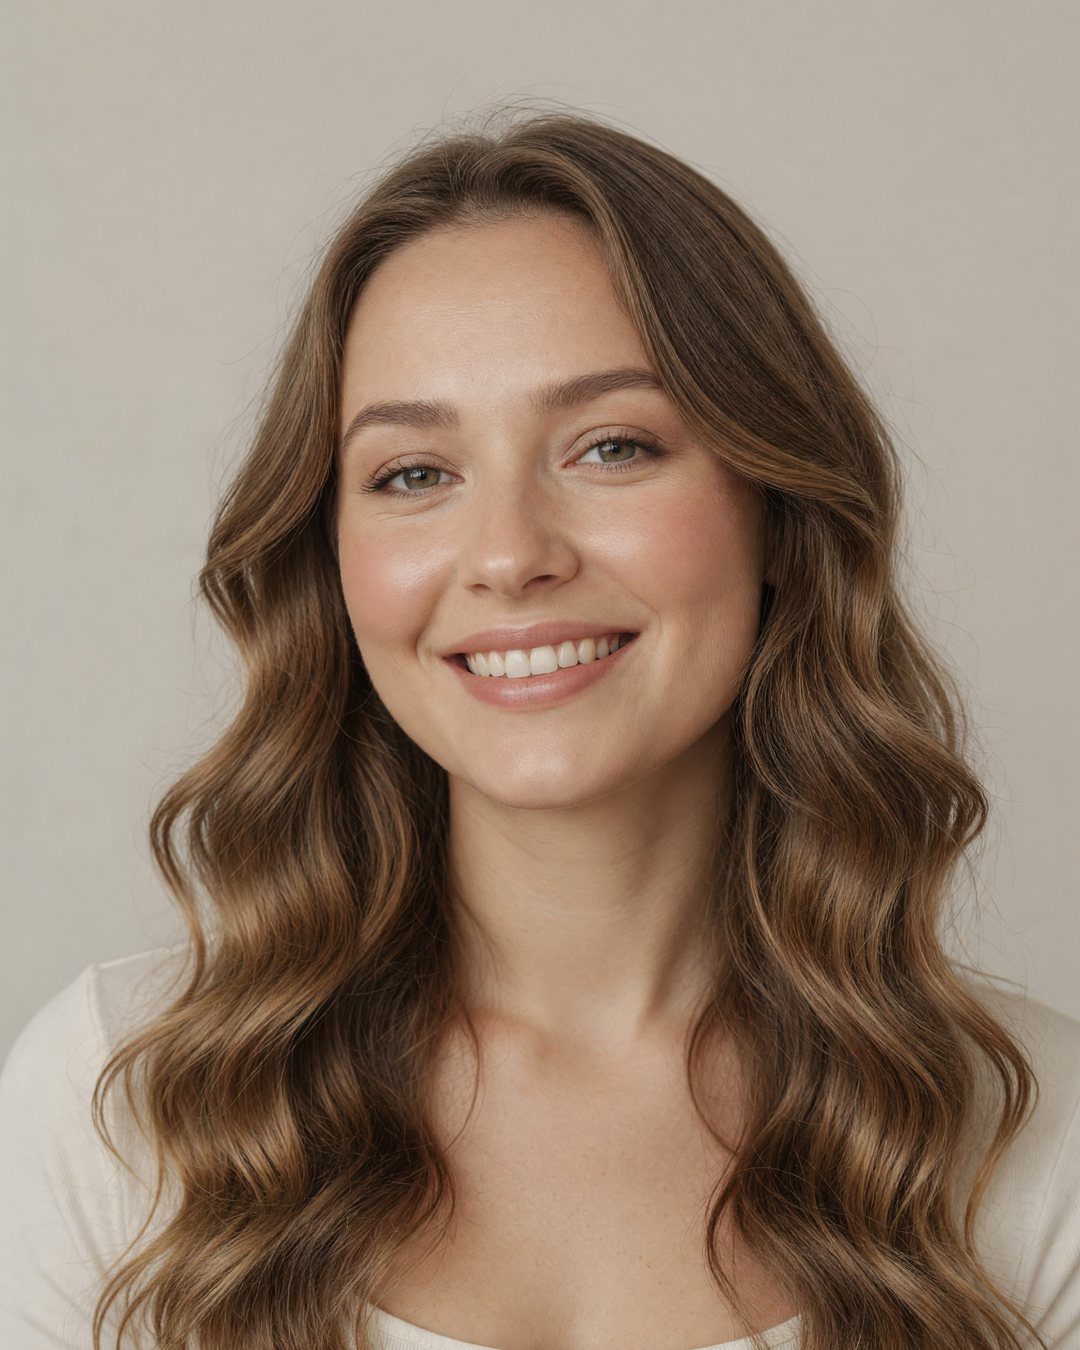
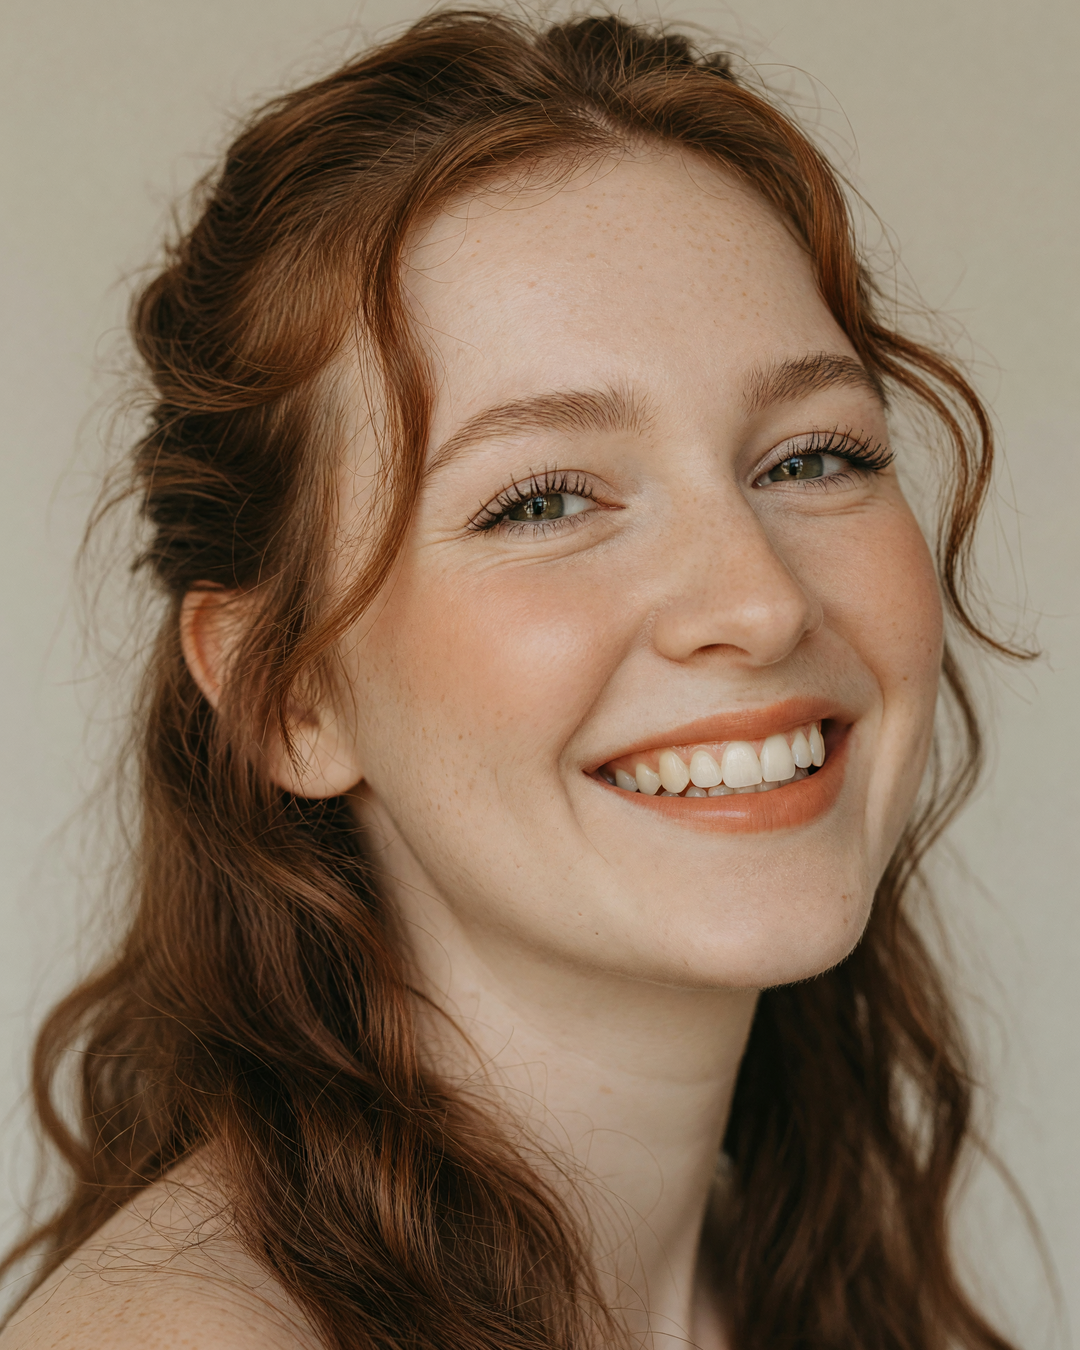
feat(brand): reference-пак AI-модели (вариант D) — якорь + ракурсы + эмоции
- assets/brand/ai_model.png — портрет-якорь (вариант D: медные волнистые волосы,
  веснушки, стройная, ультра-реалистичная кожа)
- assets/brand/model_sheet.png — ракурсы лица (анфас/3-4/профиль) + фигуры
- assets/brand/expression_sheet.png — эмоции (уставшая/радостная/спокойная/
  энергичная/нейтраль/смех)
- цель: единый персонаж во всех генерациях (лицо И телосложение), референсы в
  images[] через _call_xai_edit
- build_post01.py: S1/S6 промты += медные волосы + ультра-реализм
- PLANS.md обновлён

diff --git a/build_post01.py b/build_post01.py
@@ -256,20 +256,25 @@ def _grok_edit(out_name, refs, prompt, ratio="4:5"):
     return p
 
 
+# ультра-реализм: фактура кожи сохраняется и в сценах (edits любит «сглаживать»)
+_REAL = (" ultra realistic skin with visible pores and texture, fine flyaway hair strands, "
+         "subtle natural imperfections, no skin smoothing, no retouching, hyperrealistic "
+         "photograph, subtle film grain")
 # слайд 1 — та же девушка, уставшая (вечер, диван)
 s1 = _grok_edit("grok_s1_girl.png", [GIRL_REF],
-    "Keep the exact same woman face and identity from the reference. Full lifestyle photo: "
-    "she sits tired and exhausted on a sofa at home in the evening, head resting on her hand, "
-    "low energy weary mood, warm dim lamp light, muted warm tones, cinematic editorial, "
-    "shallow depth of field")
+    "Keep the exact same woman face and identity from the reference (auburn wavy hair, "
+    "freckles). Full lifestyle photo: she sits tired and exhausted on a sofa at home in the "
+    "evening, head resting on her hand, low energy weary mood, warm dim lamp light, muted "
+    "warm tones, cinematic editorial, shallow depth of field" + _REAL)
 # слайд 6 — та же девушка держит НАШУ банку (мультиреференс: лицо + банка)
 s6b = _grok_edit("grok_s6_girl.png", [GIRL_REF, BOTTLE_REF],
-    "Keep the exact same woman face and identity from the FIRST reference image. She holds "
-    "in her hand the exact POWERELIX chlorophyll bottle from the SECOND reference image, "
-    "presenting it toward the camera, happy healthy and energetic. Vibrant deep emerald green "
-    "scene, fresh mint leaves and a dynamic clean water splash, glistening droplets, glossy, "
-    "richly saturated juicy green, bright cinematic studio light, premium commercial photo. "
-    "Keep the bottle shape and its green label exactly as in the second reference")
+    "Keep the exact same woman face and identity from the FIRST reference image (auburn wavy "
+    "hair, freckles). She holds in her hand the exact POWERELIX chlorophyll bottle from the "
+    "SECOND reference image, presenting it toward the camera, happy healthy and energetic. "
+    "Vibrant deep emerald green scene, fresh mint leaves and a dynamic clean water splash, "
+    "glistening droplets, glossy, richly saturated juicy green, bright cinematic studio light, "
+    "premium commercial photo. Keep the bottle shape and its green label exactly as in the "
+    "second reference" + _REAL)
 
 # ── слайды ──
 cover(f"{OUT}/01.png", s1, "Устаёшь не от лени",

diff --git a/PLANS.md b/PLANS.md
@@ -11,7 +11,7 @@
   - **Hero-оверлей для сцен/каруселей** — `render_hero(style, title, bg_path, ...)`: наш бренд поверх ЛЮБОЙ фотосцены. Первая версия копировала каркас PWR (верхний бар + коллаб-слэм) → **пересобрано на своих каркасах**: `block` (чистый блок + скобка), `band` (градиент-лента lime→бирюза со слоганом), `anchor` (знак-якорь). bg_path=None → тёмная заглушка (реальные сцены — после генератора, фаза D). TODO: выбрать каркас; в anchor сдвинуть знак с текста.
   - **Генерация сцен (Replicate) — фаза 1 готова.** `ig_automation/scenes.py` (`generate_scene(prompt, ratio, hq, model)`) + CLI `generate_scene.py`: промпт → сцена 4:5/9:16/1:1 → `output/scenes/`. Паттерн из wb-design (`call_replicate` + sanitize, `Prefer: wait`). Дефолт-модель `flux-dev` (env `IMAGE_MODEL`), `--hq` → `flux-1.1-pro-ultra`. Текст рисуем оверлеем, в промпт — «no text/no watermark». Нужно: вставить `REPLICATE_API_TOKEN` в `.env` (из wb-design). Верифицировано вживую (танц-сцена 1080×1350). План: `plans/scene-generation-2026-06-09.md`.
   - **Мульти-модель + Grok (2026-06-10).** `scenes.py` теперь маршрутизирует по модели: Replicate (flux/flux-ultra), `openai/gpt-image-1` (требует `OPENAI_API_KEY` как input — берём из соседнего `wb-design/.env`, маппинг 4:5→2:3), `google/nano-banana` (короткий негатив — длинный `_NO_TEXT` детерминированно ловит safety E005), и **Grok xAI** напрямую (`grok-imagine-image-quality`, `https://api.x.ai/v1/images/generations`, `_call_xai_image`, 4:5→3:4, `XAI_API_KEY`). Сравнение 3 моделей на «сочном» промпте → **победитель Grok** (самый красочный изумруд, уровень WB-карточек); nano-banana 2-е, gpt-image тёмное. Записано в память `reference_grok_image_gen`.
-  - **AI-модель бренда (готово).** Постоянное «лицо» POWERELIX (вариант A: европейка ~27, светло-русые волнистые волосы) — `assets/brand/ai_model.png`. Reference-консистентность через Grok **`images/edits`** (`_call_xai_edit`, `output/scenes`): один портрет-якорь → то же лицо на всех слайдах/постах, сцена меняется промтом. Мультиреференс (`images[]` = лицо + `bottle_ref.jpg`) → она держит НАСТОЯЩУЮ банку, этикетка «ХЛОРОФИЛЛ» сохраняется из референса. data URL в `image.url`, хостинг не нужен. Память: `project_powerelix_ai_model`.
+  - **AI-модель бренда + reference-пак (готово).** Постоянное «лицо» POWERELIX — **вариант D** (~24, медные волнистые волосы, веснушки, стройная; ультра-реалистичная кожа: поры/пушок/без ретуши). Reference-пак в `assets/brand/`: `ai_model.png` (якорь), `model_sheet.png` (ракурсы лица+фигуры), `expression_sheet.png` (эмоции) — чтобы девушка была ВЕЗДЕ одинаковой (лицо И телосложение). Консистентность через Grok **`images/edits`** (`_call_xai_edit`): референс из пака → лицо/фигура те же, сцена меняется промтом. Мультиреференс (`images[]` = лицо + `bottle_ref.jpg`) → держит НАСТОЯЩУЮ банку, этикетка «ХЛОРОФИЛЛ» сохраняется. data URL в `image.url`, хостинг не нужен. 100% пиксельный лок тела = только LoRA (через xAI API недоступно). Память: `project_powerelix_ai_model`.
   - **Карусель Пост №1 (готово, `build_post01.py`):** S1 — AI-модель уставшая (вечер, диван, `grok_s1_girl.png`); слайды 2–5/7 — кремовый фирменный однотон с текстом; **S6** — та же модель держит банку хлорофилла (`grok_s6_girl.png`, мультиреференс лицо+банка), сочный изумруд + всплеск + мята, текст-поверх-фото `hero_product_slide` + `_greendim`. ⚠️ Урок: «живая/сочная» = про hero-картинки (1, 6), а не заливать зелёным все слайды (версия «все 7 на зелёном» отбракована); средние слайды — чистый однотон. TODO: Reels-версия; Пост №2 (Инозитол) на той же модели.
   - **Фаза 2 готова (связка с оверлеем):** CLI `generate_scene.py` += `--overlay block|band|anchor`, `--title`, `--subtitle`, `--product <id>`. `render_hero(... product_id=)` врезает реальную банку в сцену (компактный инсет) + тянет акцент/заголовок/подпись из `product_assets`. Lifestyle-обложка (без продукта) — отлично; продуктовые карточки требуют **продуктовых сцен-подложек** (стол/подиум, без людей) — это в фазе 3. Дальше фаза 3: промпт-шаблоны по visual_guide (lifestyle/dark/light + продуктовые подложки) + 9:16 + batch.
 - **E. Плейбуки** — визуал + цепляющие заголовки, копим в prompt-lab (по референсам/урокам от пользователя).